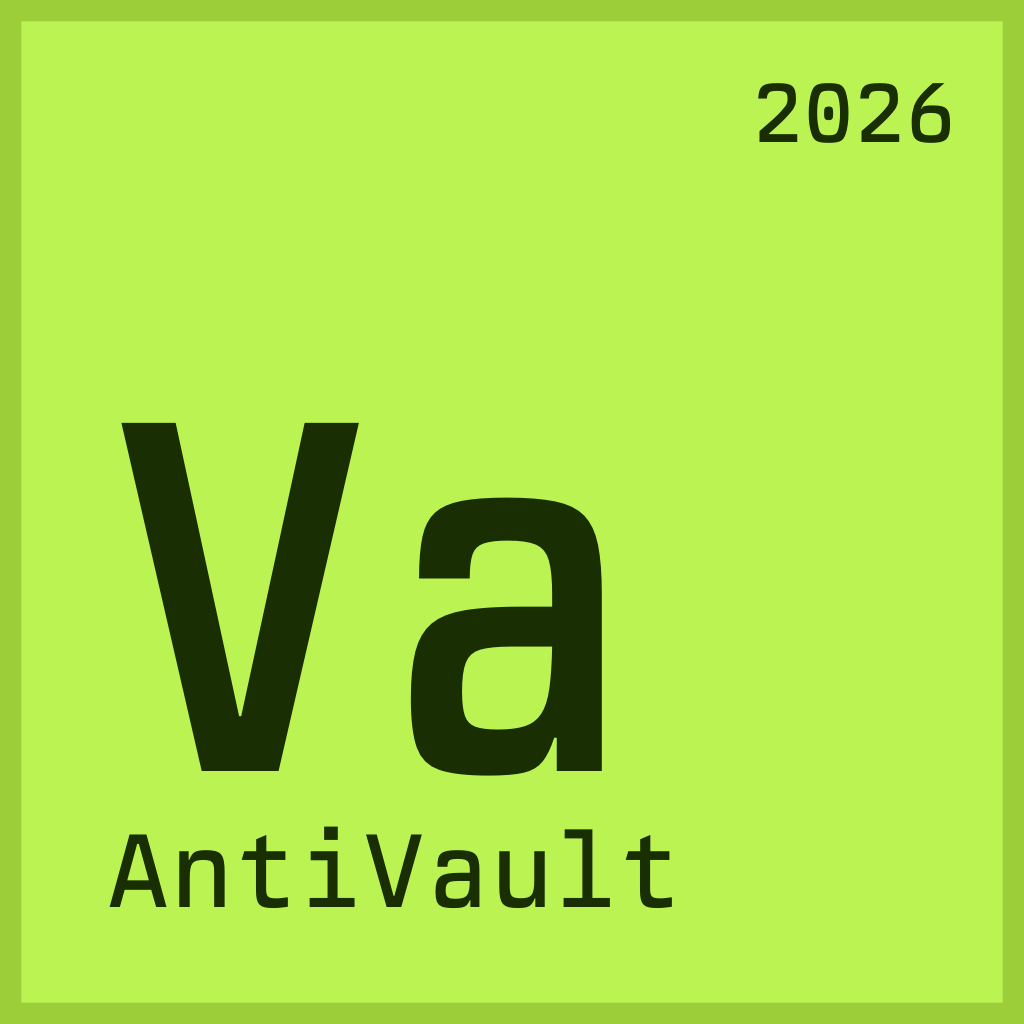
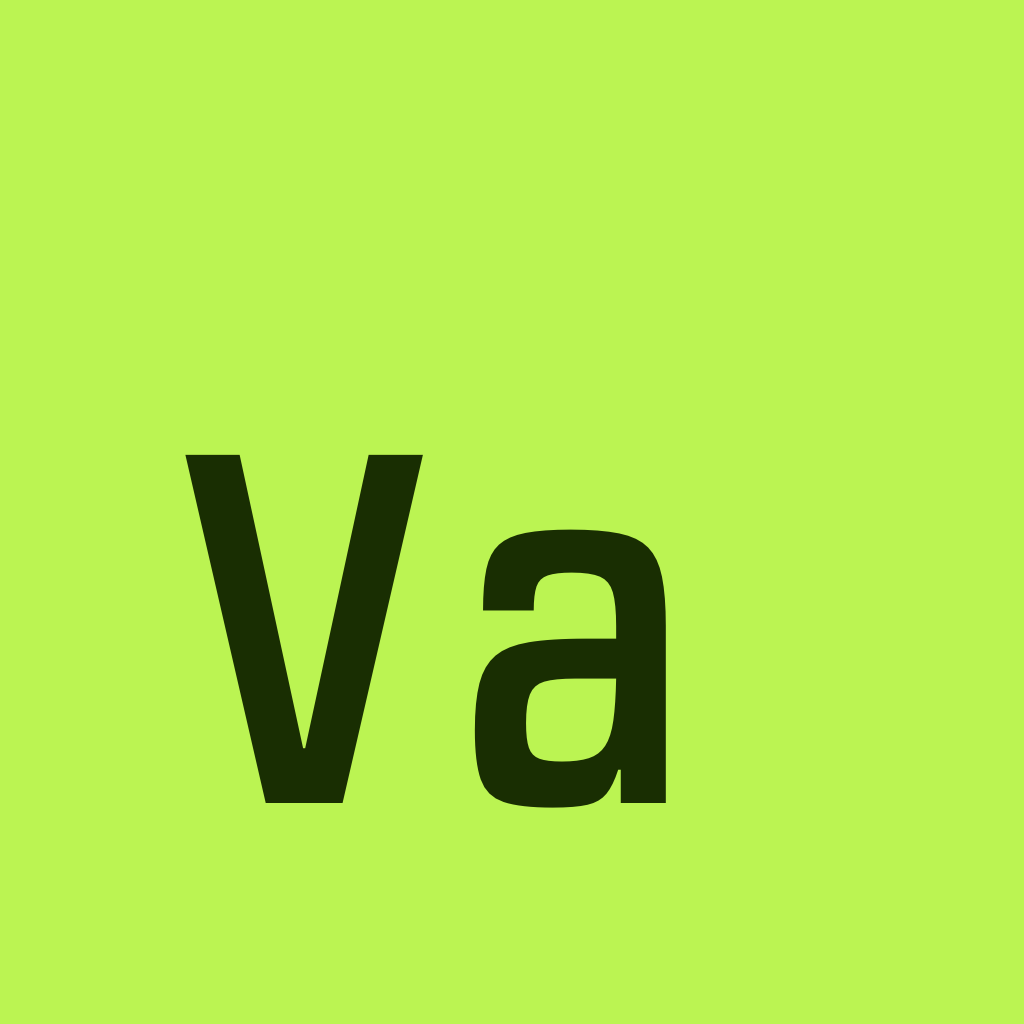
Add dynamic PWA manifest (manifest-json.blade.php)
- Dynamic Blade template returning manifest.json with env-aware name
- Public GET /manifest route with JSON content type
- <link rel="manifest"> in head partial
- New PWA icons: app-icon.png (512x512), app-icon-192-maskable.png

diff --git a/resources/views/manifest-json.blade.php b/resources/views/manifest-json.blade.php
@@ -1,0 +1,15 @@
+@php
+    $suffix = app()->environment('production') ? null : app()->environment();
+    $appName = collect(['AntiVault', $suffix])->filter()->implode(' - ');
+@endphp
+{
+  "name": {!! json_encode($appName) !!},
+  "icons": [
+    { "src": "/app-icon-192.png", "type": "image/png", "sizes": "192x192" },
+    { "src": "/app-icon.png", "type": "image/png", "sizes": "512x512" },
+    { "src": "/app-icon-192-maskable.png", "type": "image/png", "sizes": "192x192", "purpose": "maskable" }
+  ],
+  "start_url": "/",
+  "display": "standalone",
+  "scope": "/"
+}

diff --git a/routes/web.php b/routes/web.php
@@ -6,6 +6,10 @@ use Illuminate\Support\Facades\Route;
 Route::view('/', 'pages::home')->middleware('guest');
 Route::view('home', 'pages::home')->name('home');
 
+Route::get('/manifest', function () {
+    return response()->view('manifest-json')->header('Content-Type', 'application/json');
+});
+
 Route::prefix('{current_team}')
     ->middleware(['auth', 'verified', EnsureTeamMembership::class])
     ->group(function () {

diff --git a/resources/views/partials/head.blade.php b/resources/views/partials/head.blade.php
@@ -6,6 +6,7 @@
 </title>
 
 <link rel="icon" href="/favicon.png" type="image/png">
+<link rel="manifest" href="{{ url('/manifest') }}">
 <link rel="apple-touch-icon" href="/apple-touch-icon.png">
 
 <link rel="preconnect" href="https://fonts.bunny.net">